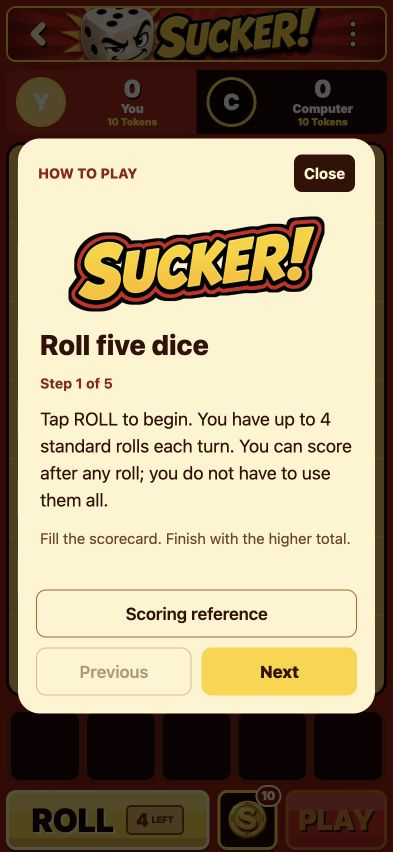
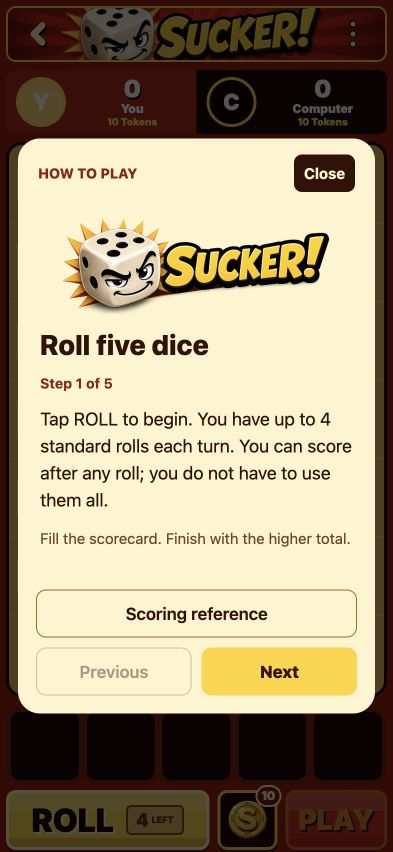
Reuse shipped guide artwork within the web size budget

Changed region(s): [[0.1527, 0.2441, 0.855, 0.3662]]

diff --git a/src/ui/HowToPlayDialog.tsx b/src/ui/HowToPlayDialog.tsx
@@ -80,7 +80,7 @@ export function HowToPlayDialog({ onClose }: { onClose: () => void }) {
             {!reference && (
               <Image
                 accessible={false}
-                source={require('../../assets/sucker-wordmark-red.png')}
+                source={require('../../assets/sucker-lobby-header.png')}
                 style={styles.logo}
                 resizeMode="contain"
               />

diff --git a/docs/review-evidence/learn-to-play/README.md b/docs/review-evidence/learn-to-play/README.md
@@ -2,8 +2,12 @@
 
 The existing game menu had only Stats and no way to learn the controls or category meanings ([before](before.png)).
 
-Added an optional five-step How to Play dialog covering rolls, held dice, score previews, committing a category, and tokens. A scoring reference explains every category and the section/extra-Sucker bonuses. It is available beside computer play before sign-in, in the signed-in lobby, and from the game menu. Closing help returns to the same game and restores focus. The guide uses the existing high-resolution wordmark ([after](after.png)).
+Added an optional five-step How to Play dialog covering rolls, held dice, score previews, committing a category, and tokens. A scoring reference explains every category and the section/extra-Sucker bonuses. It is available beside computer play before sign-in, in the signed-in lobby, and from the game menu. Closing help returns to the same game and restores focus. The guide reuses the existing lobby artwork ([after](after.png)).
 
 The guide does not alter gameplay or force an introduction before playing. Detailed punch eligibility remains a separate pending rules decision; the copy refers to an eligible turn without resolving that conflict.
 
 Four guide browser cases pass, covering all steps, reference access, keyboard focus, held-dice/roll preservation, and 375 × 667 / 430 × 932 controls. The existing two-player UI flow and all three phone menu/layout cases also pass. Inspected and updated only five intentional help-entry snapshots; discarded unrelated platform-rendering differences generated during that run. Both typechecks, 88 app tests, 11 Edge tests, and lint pass. Native VoiceOver and physical-device text settings remain unverified.
+
+## CI follow-up
+
+The first asset choice introduced an otherwise unused large image. Reproduced the failed web-export budget locally: 6.76 MB against 6.50 MB ([before](export-before.png)). Reusing the already shipped lobby artwork reduces the export to 6.02 MB, with 2.03 MB JavaScript ([after](export-after.png)). Inspected the final phone appearance. Also inspected and replaced three intentional menu/lobby baselines with their canonical Linux CI captures; their local macOS font/raster rendering differed. No budget increase or test tolerance change was used.
